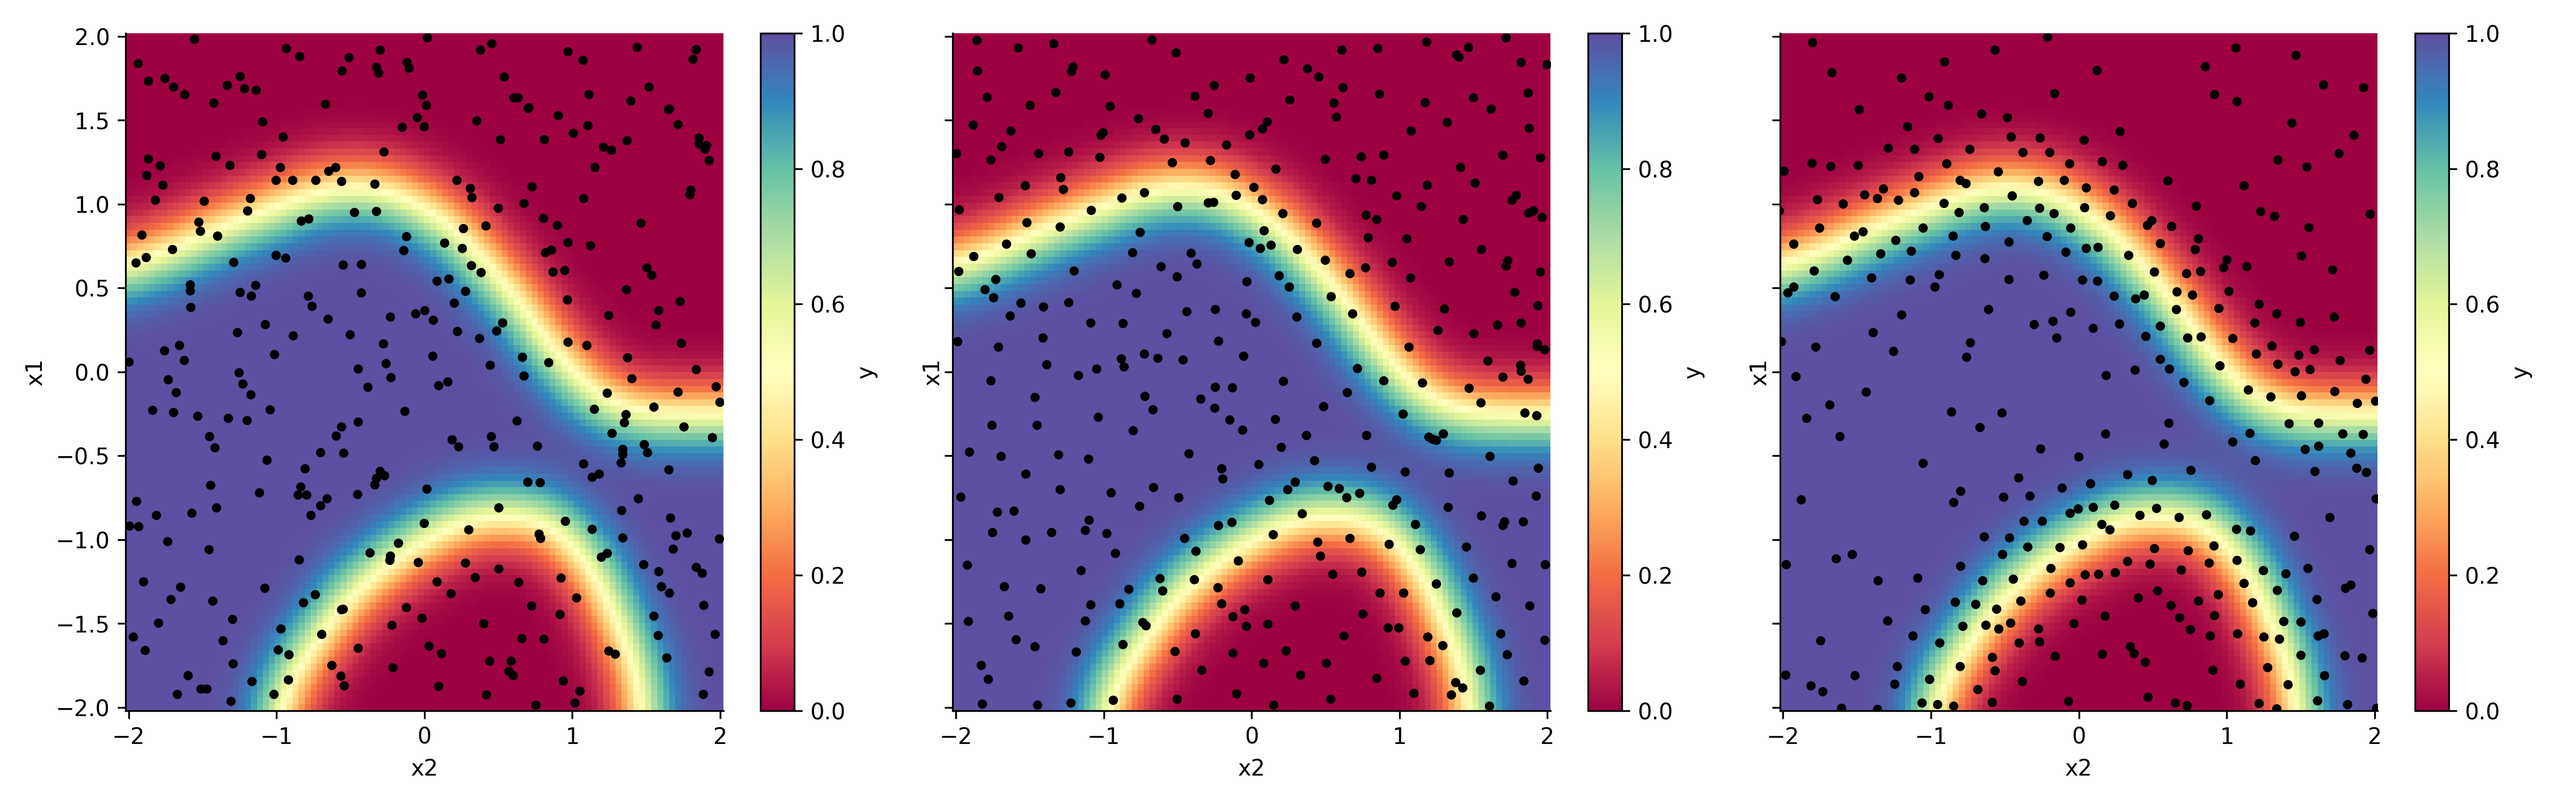
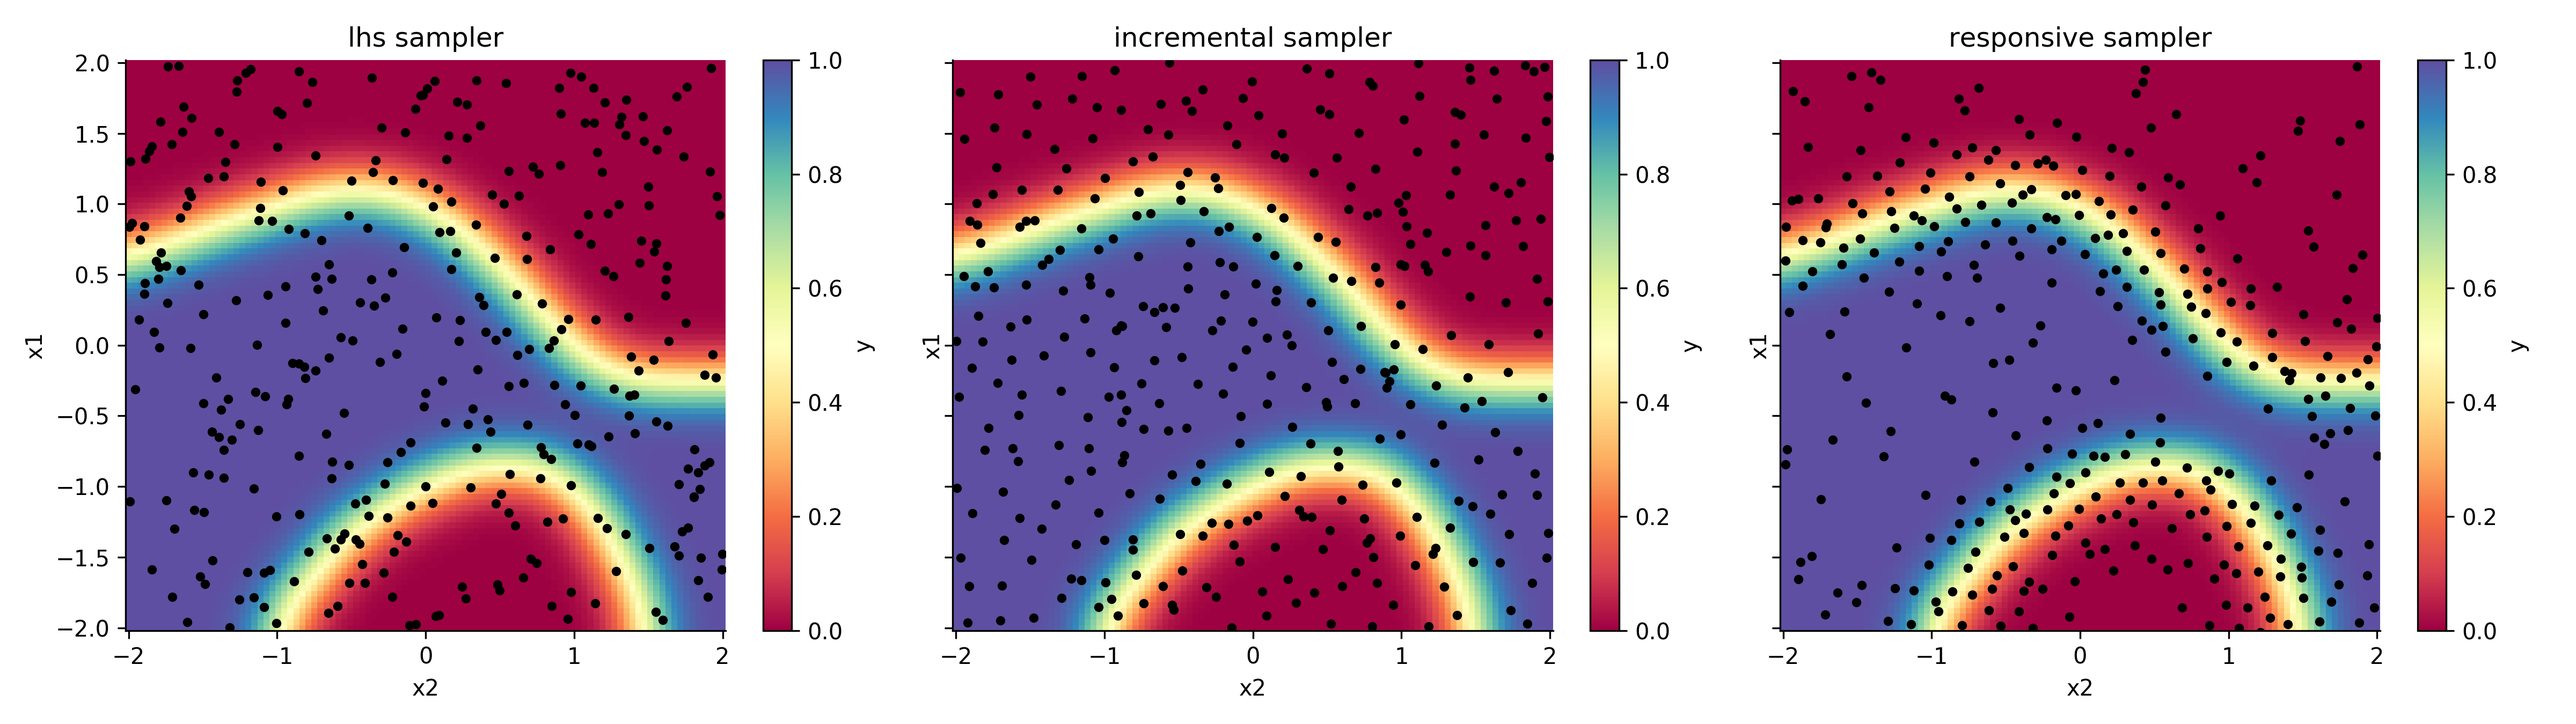
add subtitle to sampler figure

diff --git a/README.md b/README.md
@@ -253,6 +253,8 @@ Thank to that magnitude map and the distance map already used into the increment
 
 ![image](doc/responsive.png)
 
+We can see that the samples are nicely distributed near the high gradient.
+
 Available samplers are listed with
 
 ```python
